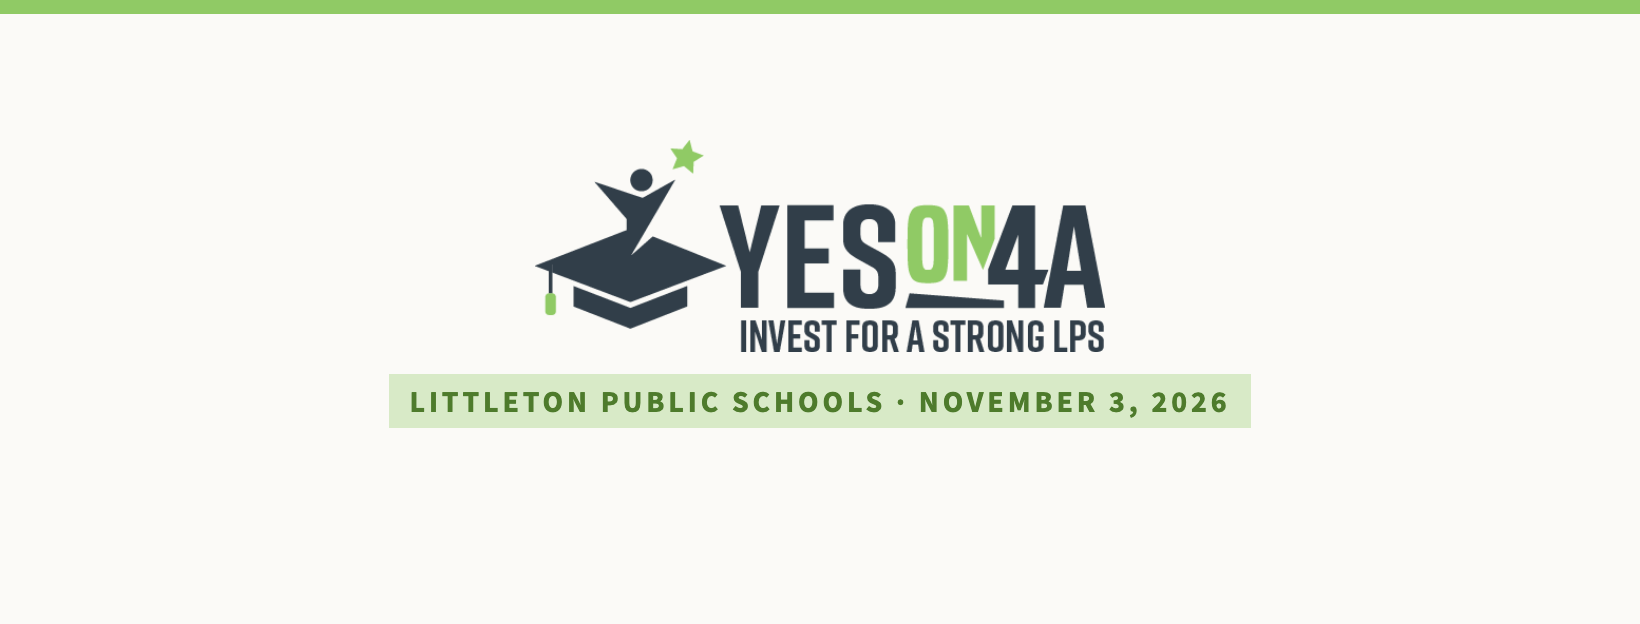
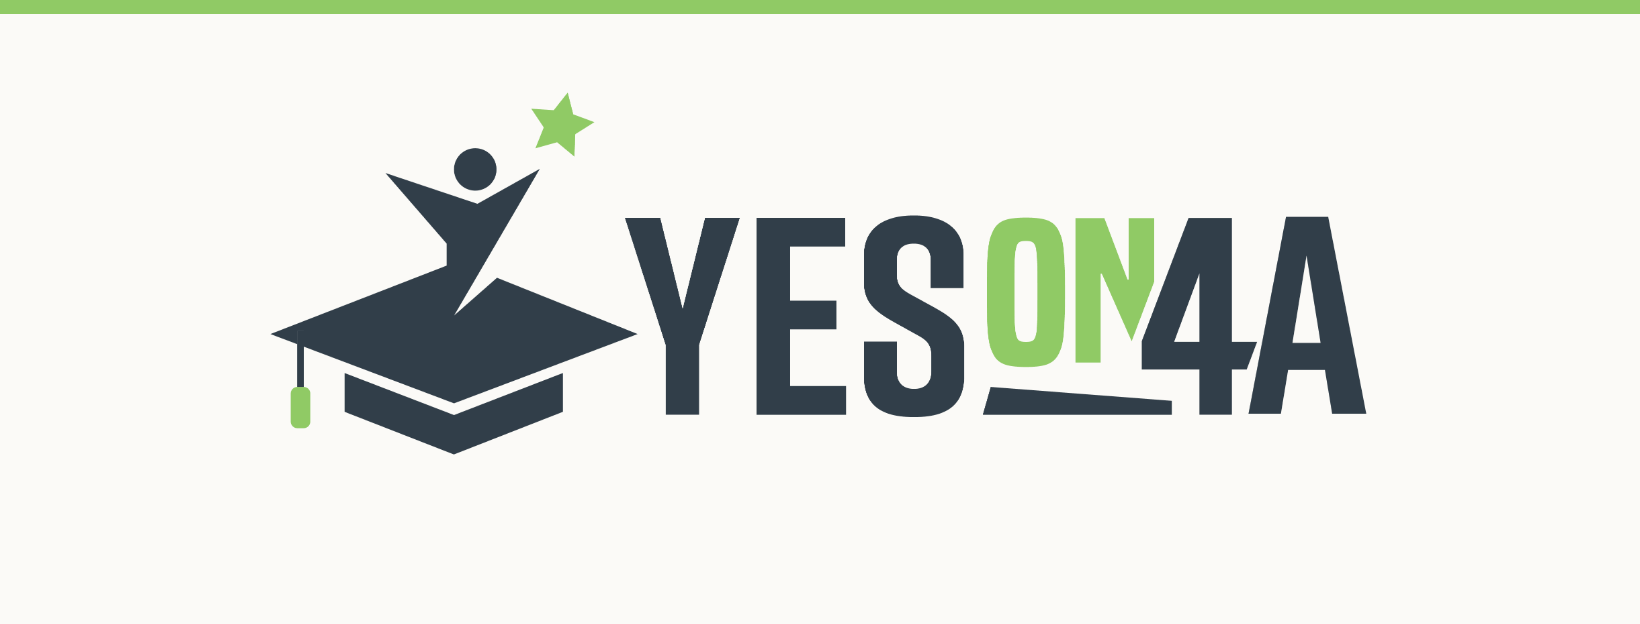
Facebook cover uses the organizer's supplied header artwork
"The campaign organizer would like us to use this as the facebook
header. Can you format it so that you can see it on every size screen
(mobile, desktop, etc.) and update it on the facebook page?"

branding/yes-on-4a/facebook-header.png is the organizer's file, used
as supplied — nothing added to it. The cover master now only positions
it; the date/location tag I had composed is gone, since the organizer
specified the artwork.

Sizing is measured, not guessed. Ink lands at 66.8% of the cover width,
dead centre, with 170px clear at the bottom. Verified against simulated
centre-crops: intact at 2.63:1 (desktop), 2.2:1, 2.0:1 and 1.8:1;
only an implausible 1.6:1 would clip it.

Two things the measurement caught. First, `max-height` on the image
made HEIGHT the binding constraint, so the logo rendered at 53% of the
canvas with 385px of margin sitting unused on each side — it is sized
by width now. Second, the ink-bounds check initially read the full
canvas width because the green top bar spans it; the measurement skips
the bar so "cropped" means lost logo, not lost paper.

Note this lockup carries NO tagline, unlike every other file in
branding/yes-on-4a/. Recorded in the README so nobody swaps it for a
tagline variant thinking they are interchangeable.

Applied to the Page. Facebook silently kept the old cover on the first
save again; confirmed the swap by the fbcdn photo id changing
(805878550 -> 805885282), not by how the page looked.
[…]

Changed region(s): [[0.1555, 0.2436, 0.8396, 0.7308], [0.311, 0.1522, 0.3732, 0.2436], [0.4043, 0.2131, 0.4354, 0.274]]

diff --git a/branding/social/facebook-cover.html b/branding/social/facebook-cover.html
@@ -8,7 +8,12 @@
 
       python3 tools/render_social_cards.py facebook-cover
 
-  Two things dictate this layout, and the previous cover lost to both:
+  The artwork is the campaign's own supplied header (organizer,
+  2026-09-11) — branding/yes-on-4a/facebook-header.png. Note it carries
+  NO tagline, unlike the other lockups. Nothing is added to it here;
+  this master only positions it so no part is cropped on any screen.
+
+  Two things dictate this layout:
 
   1. Verified on the live Page (2026-09-09, owner view): the profile
      picture sits BELOW the cover on desktop, not overlapping it — so a
@@ -31,16 +36,26 @@ body{width:1640px;height:624px;background:var(--paper);overflow:hidden;
      border-top:14px solid var(--green);
      display:flex;justify-content:center}
 /* Mobile-safe width, and the bottom third reserved for the avatar. */
-.safe{width:78%;height:100%;padding-bottom:70px;
-      display:flex;flex-direction:column;align-items:center;justify-content:center}
-.lockup{height:212px;width:auto}
-.tag{margin-top:22px;font-weight:700;font-size:30px;letter-spacing:.13em;
-     text-transform:uppercase;color:var(--green-deep);
-     background:rgba(144,202,101,.32);padding:8px 20px;text-align:center}
+/* Artwork is placed by WIDTH inside the mobile-safe centre, never
+   scaled to fill: the supplied lockup is aspect ~3.02 and the cover is
+   2.63, so fitting by height would push the ends off the sides. The
+   bottom margin is larger than the top because the mobile app floats
+   the profile picture over the cover's lower centre even though
+   desktop does not. */
+.safe{width:100%;height:100%;
+      padding:0 0 91px;
+      display:flex;align-items:center;justify-content:center}
+/* Sized by WIDTH. An earlier version also set max-height, which made
+   height the binding constraint and shrank the logo to 53% of the
+   canvas while 385px of margin sat unused on each side. The supplied
+   PNG carries its own transparent padding (ink is ~95% of its width,
+   72% of its height), so the visible ink lands near 69% of the cover
+   width — inside the mobile-safe centre with ~160px clear at the
+   bottom for the mobile profile picture. */
+.lockup{width:70%;height:auto}
 </style></head>
 <body>
   <div class="safe">
-    <img class="lockup" src="../../assets/yes-on-4a-logo.png" alt="">
-    <p class="tag">Littleton Public Schools &middot; November 3, 2026</p>
+    <img class="lockup" src="../yes-on-4a/facebook-header.png" alt="">
   </div>
 </body></html>

diff --git a/branding/yes-on-4a/README.md b/branding/yes-on-4a/README.md
@@ -16,6 +16,12 @@ python3 tools/render_brand_assets.py
 | `horizontal-tagline-dark.*` | same | green + white | dark grounds |
 | `stacked-light.*` | cap above wordmark | charcoal + green | light grounds |
 | `stacked-dark.*` | same | green + white | dark grounds |
+| `facebook-header.png` | horizontal, **no tagline** | charcoal + green | the Facebook Page cover |
+
+`facebook-header.png` was supplied by the campaign organizer
+(2026-09-11) specifically for the Page cover. It is the only lockup
+here without the "INVEST FOR A STRONG LPS" tagline — do not swap it
+for one of the others on the assumption they are interchangeable.
 
 `.ai` is the vector source; `.png` is the campaign's own transparent
 export at the largest size they supplied (540px wide). **The PNGs cap
